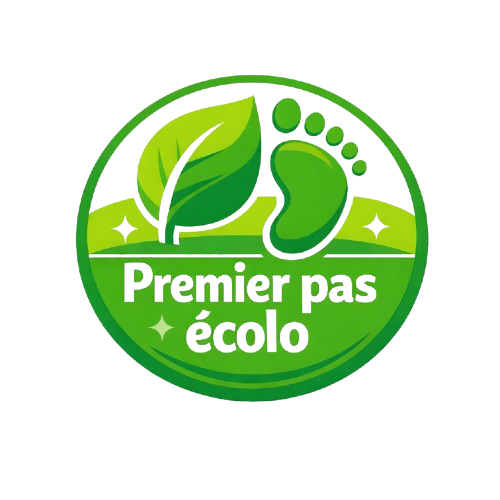
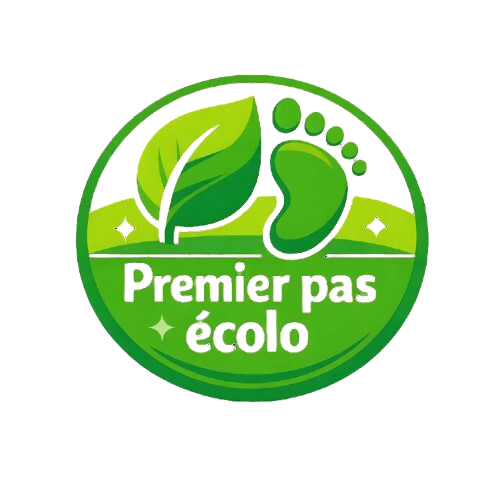
feat(rewards): add transparent badge assets
Updated reward badge PNGs and mapped them in the reward image registry.

Tests: bun biome check --fix (pass); bun test (fail: Bun CJS wrapper error in expo-router)

Branch: feature/22-user-rewards

diff --git a/src/main/typescript/features/reward/constants/reward-images.ts b/src/main/typescript/features/reward/constants/reward-images.ts
@@ -1,10 +1,9 @@
 // Map reward identifiers (id or slug) to local image assets.
 // Add entries here when you add files under src/main/resources/images/rewards/
 const REWARD_IMAGES: Record<string, number> = {
-
-    "reward-1": require("../../../../resources/images/rewards/reward-1.png"),
-    "reward-2": require("../../../../resources/images/rewards/reward-2.png"),
-    "reward-3": require("../../../../resources/images/rewards/reward-3.png"),
+  "reward-1": require("../../../../resources/images/rewards/reward-1.png"),
+  "reward-2": require("../../../../resources/images/rewards/reward-2.png"),
+  "reward-3": require("../../../../resources/images/rewards/reward-3.png")
 };
 
 // Default fallback to app icon (already present in resources)
@@ -13,7 +12,10 @@ const FALLBACK_IMAGE = require("../../../../resources/images/icon.png");
 export const getRewardImage = (rewardTitle?: string, rewardId?: number): number => {
   // Try to find by slugified title
   if (rewardTitle) {
-    const slug = rewardTitle.toLowerCase().replace(/[^a-z0-9]+/g, "-").replace(/(^-|-$)/g, "");
+    const slug = rewardTitle
+      .toLowerCase()
+      .replace(/[^a-z0-9]+/g, "-")
+      .replace(/(^-|-$)/g, "");
     if (REWARD_IMAGES[slug]) return REWARD_IMAGES[slug];
   }
 
@@ -26,4 +28,3 @@ export const getRewardImage = (rewardTitle?: string, rewardId?: number): number 
   // Fallback
   return FALLBACK_IMAGE;
 };
-
